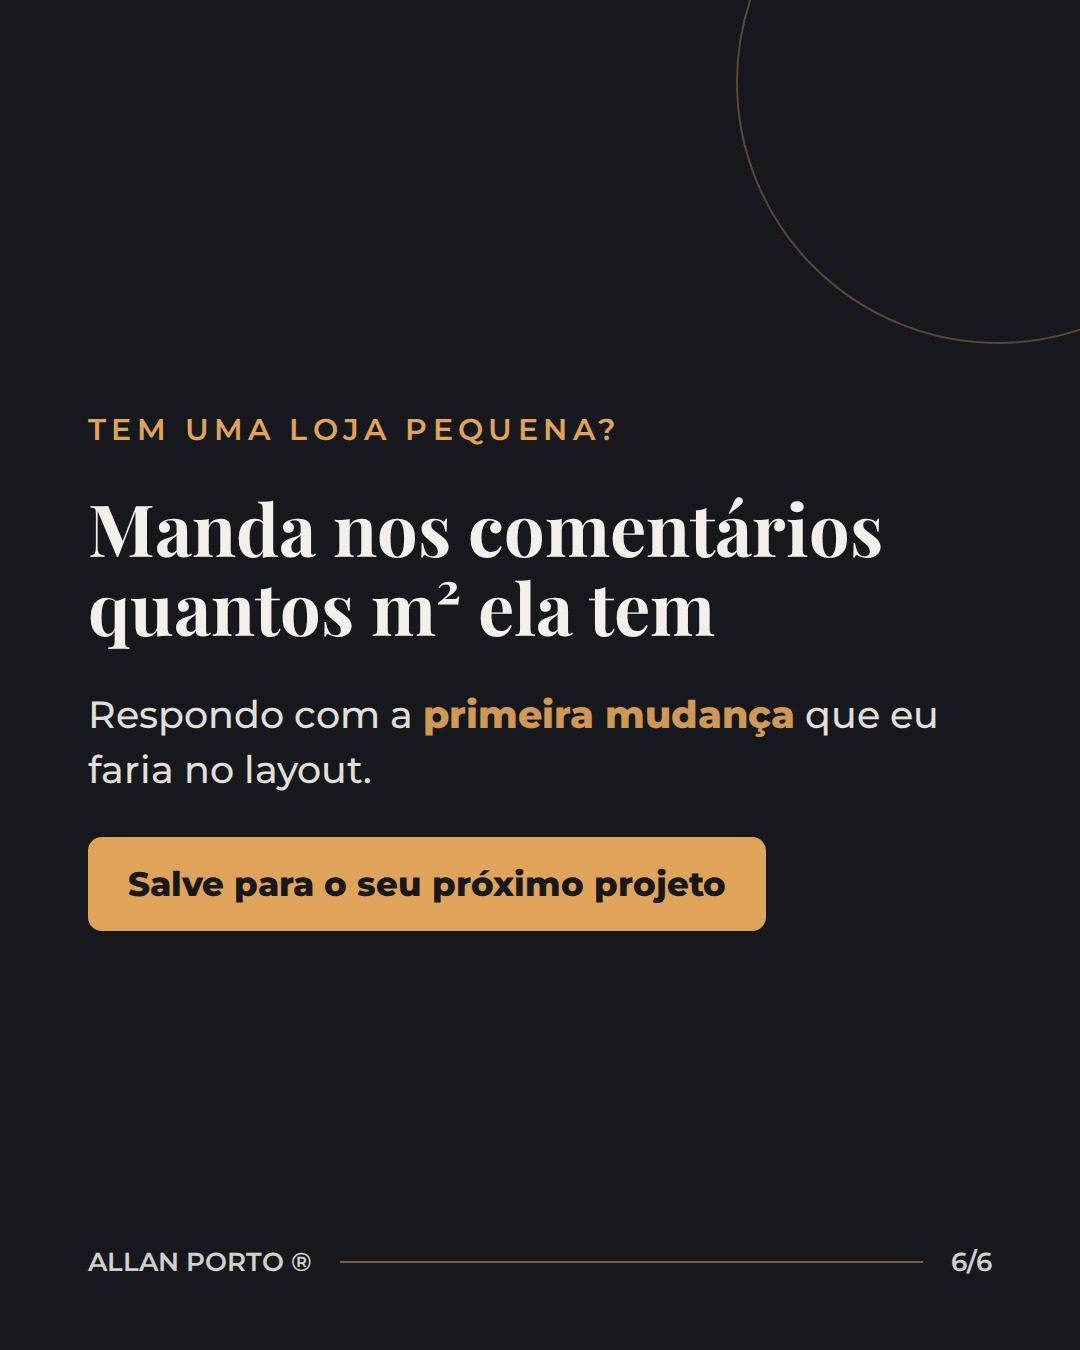
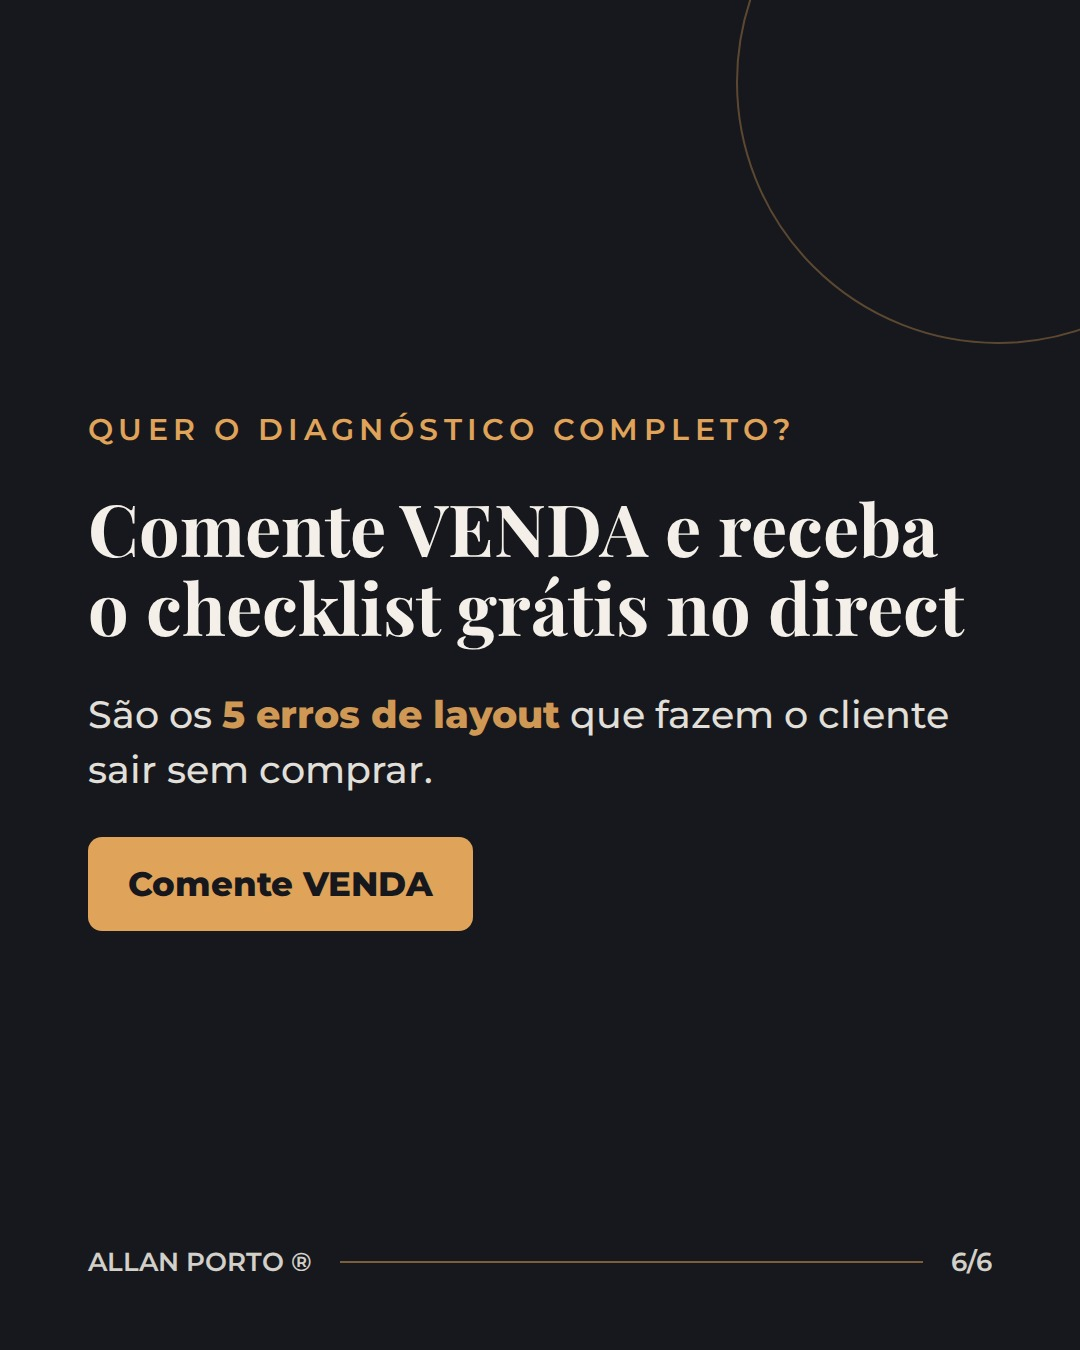
feat(marketing): chamada 'Comenta VENDA' (ManyChat) nos posts de varejo
Claude-Session: https://claude.ai/code/session_016kywDDGkkJgVuv7QVRJSHL

Changed region(s): [[0.0611, 0.3733, 0.8861, 0.5911], [0.1222, 0.6222, 0.7333, 0.7156], [0.0611, 0.3111, 0.7333, 0.3422]]

diff --git a/marketing/instagram/README.md b/marketing/instagram/README.md
@@ -28,6 +28,7 @@ Regras de conteúdo:
 - Carrossel de 5 a 8 slides: capa com gancho, 1 ideia por slide, CTA no final.
 - Legenda: gancho → resumo em lista → CTA (salvar, comentar, direct) → 8 a 12 hashtags do nicho.
 - Posts de venda levam CTA "link na bio" (o link na bio deve ter `?src=instagram&sck=organico_AAAAMMDD`).
+- **ManyChat "Comenta VENDA"** (ativo): quem comenta VENDA recebe no direct o checklist grátis do Loja que Vende (`utm_medium=dm`). Use a chamada **só em posts de varejo/loja** (pilares `varejo`, `projeto` comercial e Reels do Loja que Vende): no slide final ("Comente VENDA e receba o checklist grátis no direct") e na legenda, antes das hashtags. Não use em posts de usucapião, casa ou Kit (atrairia lead errado).
 - Nada de promessa jurídica: conteúdo de usucapião é educativo, sem garantir resultado.
 
 ## Comandos
